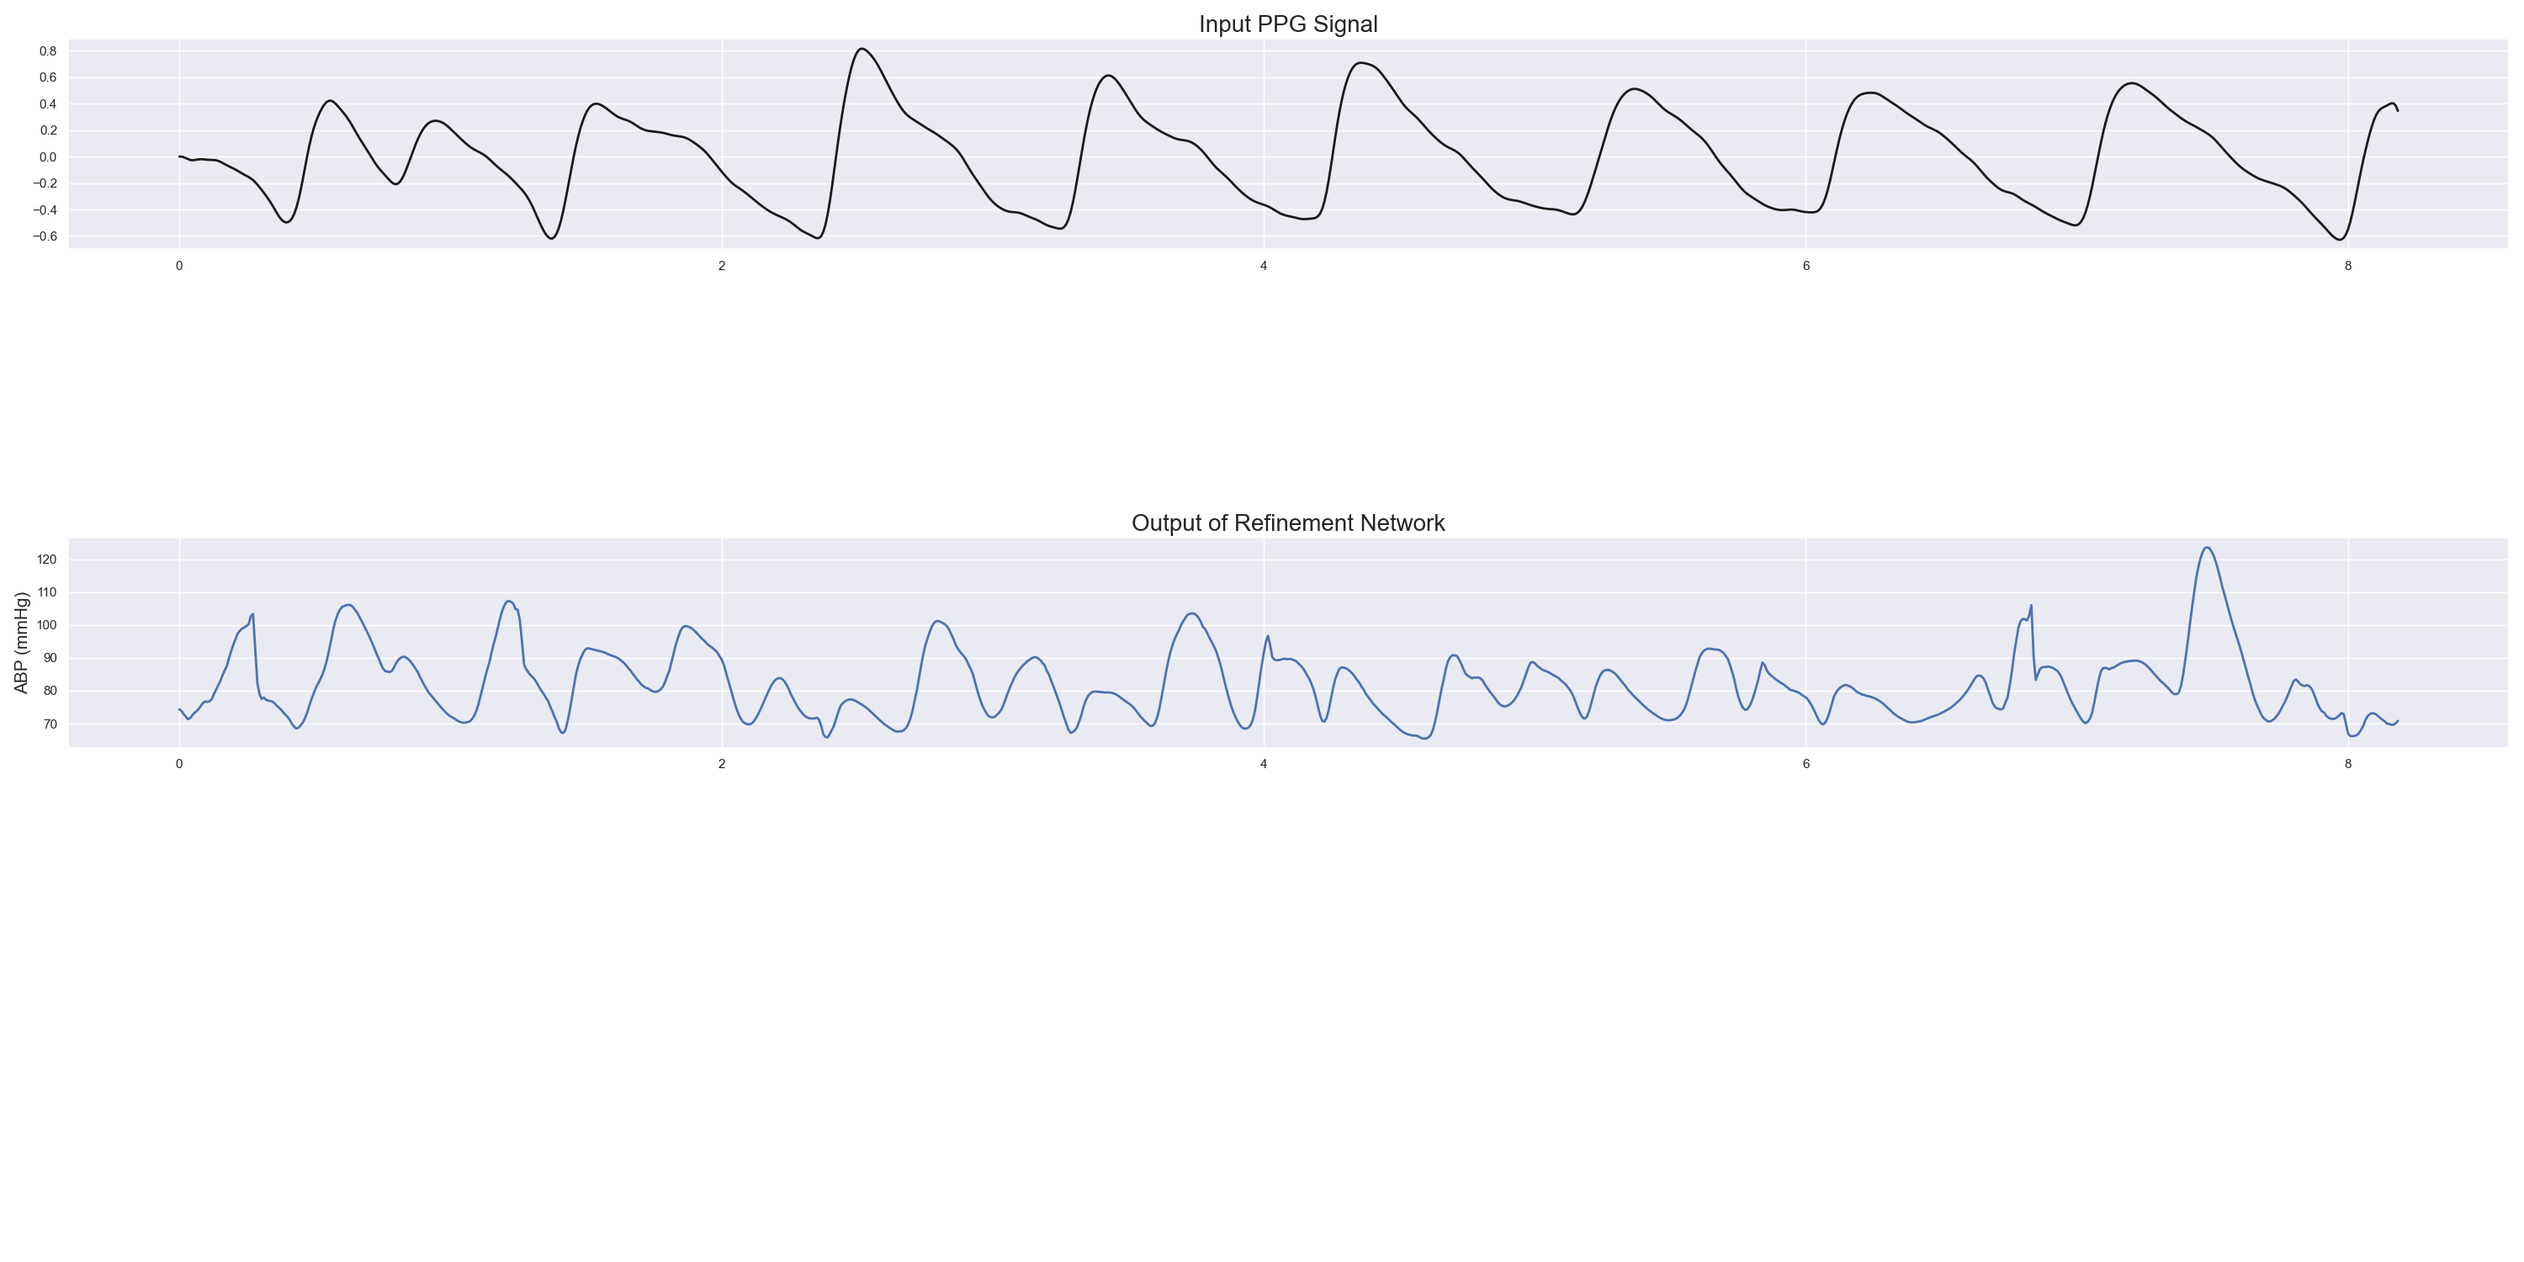
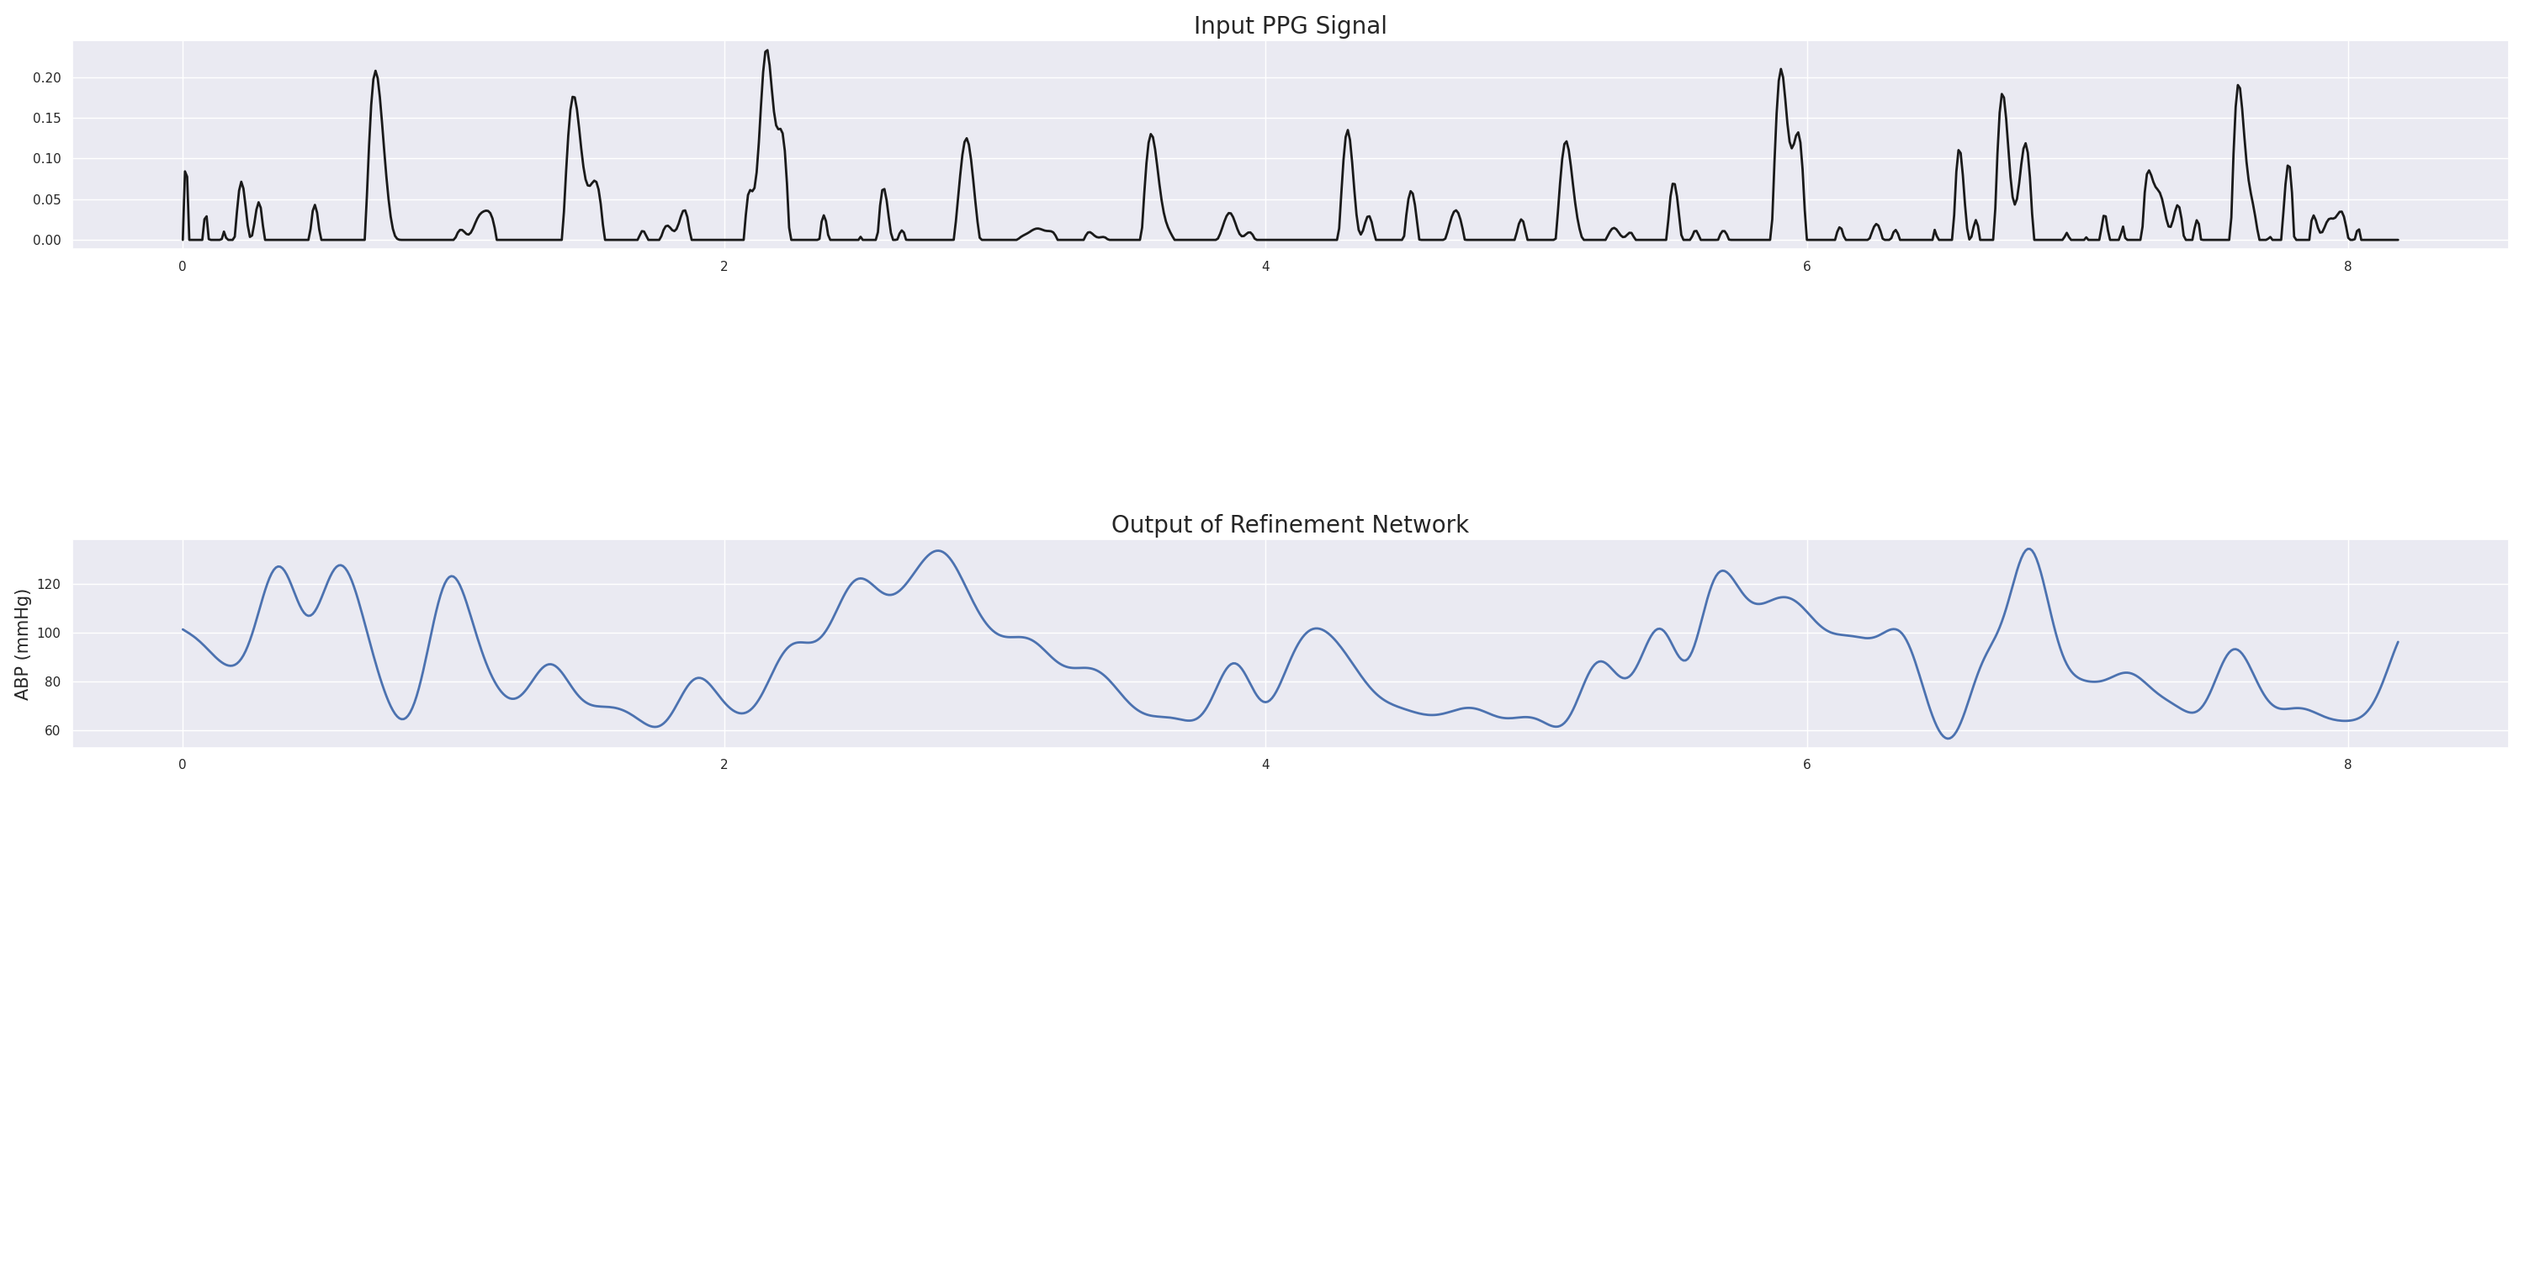
fix model

diff --git a/static/index.html b/static/index.html
@@ -4,54 +4,82 @@
     <meta charset="UTF-8">
     <title>Quay Video PPG & Upload</title>
     <style>
-        body { font-family: Arial, sans-serif; max-width: 400px; margin: 20px auto; }
-        video { width: 100%; border: 1px solid #ccc; margin-bottom: 10px; }
-        button { margin: 5px 0; }
+        body { font-family: Arial, sans-serif; max-width: 600px; margin: 20px auto; }
+        button { margin: 10px 0; padding: 10px; }
+        .result-item {
+            border: 1px solid #ccc;
+            padding: 10px;
+            margin-top: 10px;
+            background: #f9f9f9;
+        }
+        .loading {
+            color: gray;
+            font-style: italic;
+        }
     </style>
 </head>
 <body>
-<input type="file" id="fileInput" accept="video/mp4,video/webm,video/MOV" />
 
+<h3>Chọn một hoặc nhiều video PPG để đo huyết áp</h3>
+<input type="file" id="fileInput" accept="video/mp4,video/webm,video/MOV" multiple />
 <button id="uploadBtn" disabled>Upload tới API</button>
+
 <div id="result"></div>
+
 <script>
     const fileInput = document.getElementById('fileInput');
     const uploadBtn = document.getElementById('uploadBtn');
     const result = document.getElementById('result');
-    let fileToUpload = null;
+    let filesToUpload = [];
 
     fileInput.onchange = () => {
-        fileToUpload = fileInput.files[0];
-        uploadBtn.disabled = !fileToUpload;
+        filesToUpload = Array.from(fileInput.files);
+        uploadBtn.disabled = filesToUpload.length === 0;
     };
 
     uploadBtn.onclick = async () => {
-        if (!fileToUpload) return;
-        const formData = new FormData();
-        formData.append('file', fileToUpload, fileToUpload.name);
-
-        result.innerHTML = "Đang upload & xử lý...";
+        if (filesToUpload.length === 0) return;
         uploadBtn.disabled = true;
-        try {
-            const response = await fetch('http://localhost:4000/upload_ppg', {
-                method: 'POST',
-                body: formData
-            });
-            if (!response.ok) throw new Error("Lỗi server");
-            const data = await response.json();
-            result.innerHTML = `<b>Kết quả đo huyết áp:</b><br>
-                Huyết áp tâm thu (Systolic): <b>${data.systolic.toFixed(1)} mmHg</b><br>
-                Huyết áp tâm trương (Diastolic): <b>${data.diastolic.toFixed(1)} mmHg</b><br>
-                Huyết áp trung bình (Mean): <b>${data.mean.toFixed(1)} mmHg</b><br>
-                Nhịp tim (HR): <b>${data.hr ? data.hr.toFixed(1) : "?"} bpm</b>`;
-        } catch (err) {
-            result.innerHTML = "Lỗi upload hoặc lỗi xử lý API!";
-            console.error(err);
-        } finally {
-            uploadBtn.disabled = false;
-        }
-    };
 
+        for (const file of filesToUpload) {
+            const formData = new FormData();
+            formData.append('file', file, file.name);
+
+            const loadingDiv = document.createElement('div');
+            loadingDiv.className = "result-item loading";
+            loadingDiv.textContent = `Đang xử lý: ${file.name}...`;
+            result.appendChild(loadingDiv);
+
+            try {
+                const response = await fetch('http://171.244.46.201:8081/upload_ppg', {
+                    method: 'POST',
+                    body: formData
+                });
+
+                if (!response.ok) throw new Error("Lỗi server");
+                const data = await response.json();
+
+                const item = document.createElement('div');
+                item.className = "result-item";
+                const now = new Date().toLocaleString();
+
+                item.innerHTML = `<b>${file.name}</b><br>
+                    <i>Kết quả lúc: ${now}</i><br>
+                    Huyết áp tâm thu (Systolic): <b>${data.systolic.toFixed(1)} mmHg</b><br>
+                    Huyết áp tâm trương (Diastolic): <b>${data.diastolic.toFixed(1)} mmHg</b><br>
+                    Huyết áp trung bình (Mean): <b>${data.mean.toFixed(1)} mmHg</b><br>
+                    Nhịp tim (HR): <b>${data.hr ? data.hr.toFixed(1) : "?"} bpm</b>`;
+
+                result.replaceChild(item, loadingDiv);
+            } catch (err) {
+                loadingDiv.textContent = `Lỗi khi xử lý file ${file.name}`;
+                console.error(err);
+            }
+        }
+
+        uploadBtn.disabled = false;
+    };
 </script>
+
 </body>
 </html>

diff --git a/predict_test.py b/predict_test.py
@@ -1,108 +1,105 @@
-"""
-    Computes the outputs for test data
-"""
+import os
 import pickle
-
-from scipy.signal import find_peaks
-
+import numpy as np
+import matplotlib.pyplot as plt
+from scipy.signal import find_peaks, medfilt
+from setting import BASE_DIR
 from evaluate import predicting_ABP_waveform
 from models import UNetDS64, MultiResUNet1D
-import os
-import numpy as np
-from setting import BASE_DIR
 
-def calculate_heart_rate(signal, fs=125):
-    """
-    Tính nhịp tim từ tín hiệu PPG hoặc ABP.
-    ---
-    signal: mảng tín hiệu, có thể là dạng 1D hoặc 2D cần flatten
-    fs: tần số lấy mẫu
-    """
-    signal = np.array(signal).flatten()  # đảm bảo là mảng 1D
-
-    peaks, _ = find_peaks(signal, distance=fs*0.4)
-
-    num_peaks = len(peaks)
-    duration_sec = len(signal) / fs
-
-    hr = (num_peaks / duration_sec) * 60
-    return hr
-
+# ================= Utility Functions ================= #
 def clip_signal(signal, min_val, max_val):
     return np.clip(signal, min_val, max_val)
 
 def remove_spikes(signal, threshold=3):
-    """
-    Loại bỏ điểm nhiễu đột ngột bằng phương pháp dựa trên z-score.
-    Các giá trị có z-score lớn hơn threshold sẽ được thay bởi giá trị trước đó.
-    """
     signal = np.array(signal).flatten()
-    mean = np.mean(signal)
-    std = np.std(signal)
+    mean, std = np.mean(signal), np.std(signal)
     z_scores = np.abs((signal - mean) / std)
     clean_signal = signal.copy()
     for i in range(len(signal)):
         if z_scores[i] > threshold:
-            # Thay thế bằng giá trị trước đó (hoặc giá trị trung bình)
-            clean_signal[i] = clean_signal[i-1] if i > 0 else mean
+            clean_signal[i] = clean_signal[i - 1] if i > 0 else mean
     return clean_signal
 
-from scipy.signal import medfilt
-
 def median_filter(signal, kernel_size=5):
-    """
-    Lọc nhiễu đột ngột bằng median filter.
-    """
     return medfilt(signal, kernel_size)
 
+def calculate_heart_rate(signal, fs=125):
+    signal = np.array(signal).flatten()
+    peaks, _ = find_peaks(signal, distance=0.4 * fs)
+    return (len(peaks) / (len(signal) / fs)) * 60
+
+def extract_sbp_dbp(abp_signal, distance=30):
+    abp_signal = np.array(abp_signal).flatten()
+    sbp_idx, _ = find_peaks(abp_signal, distance=distance)
+    dbp_idx, _ = find_peaks(-abp_signal, distance=distance)
+    return abp_signal[sbp_idx], abp_signal[dbp_idx], sbp_idx, dbp_idx
+
+from scipy.signal import butter, filtfilt
+
+def lowpass_filter(signal, fs, cutoff=5):
+    b, a = butter(4, cutoff / (0.5 * fs), btype='low')
+    return filtfilt(b, a, signal)
+
+def plot_abp_with_sbp_dbp(abp_signal, sbp_idx, dbp_idx):
+    abp_signal = np.array(abp_signal).flatten()
+    plt.plot(abp_signal, label="ABP")
+    plt.plot(sbp_idx, abp_signal[sbp_idx], 'ro', label="SBP")
+    plt.plot(dbp_idx, abp_signal[dbp_idx], 'go', label="DBP")
+    plt.legend()
+    plt.title("ABP waveform with SBP and DBP points")
+    plt.xlabel("Time (samples)")
+    plt.ylabel("Pressure (mmHg)")
+    plt.grid()
+    plt.savefig(os.path.join('abp_with_sbp_dbp.png'))
+    plt.show()
+
+# ================= Main Prediction Function ================= #
 def predict_test_data(x_test):
-    """
-        Computes the outputs for test data
-        and saves them in order to avoid recomputing
-    """
-    #preprocessing
-    dt = pickle.load(open(os.path.join(BASE_DIR, 'data', 'meta9.p'), 'rb'))			# loading metadata
-    max_ppg = dt['max_ppg']
-    min_ppg = dt['min_ppg']
-    max_abp = dt['max_abp']
-    min_abp = dt['min_abp']
-    print({
-        "max_ppg": max_ppg,
-        "min_ppg": min_ppg,
-        "max_abp": max_abp,
-        "min_abp": min_abp
-    })
-    # x_test = clip_signal(x_test, min_ppg, max_ppg)  # Lọc nhiễu đột ngột bằng median filter
-    ppg_norm = np.array(x_test)      # Thêm dòng này để chắc chắn x_test là array
+    # Load metadata
+    meta = pickle.load(open(os.path.join(BASE_DIR, 'data', 'meta9.p'), 'rb'))
+    min_ppg, max_ppg = meta['min_ppg'], meta['max_ppg']
+    min_abp, max_abp = meta['min_abp'], meta['max_abp']
 
-    ppg_norm = (ppg_norm - min_ppg) / (max_ppg - min_ppg)
-
-    length = 1024               # length of signal
-
+    # Normalize and reshape PPG input
+    x_test = np.array(x_test)
+    x_test = clip_signal(x_test, min_ppg, max_ppg)
+    ppg_norm = (x_test - min_ppg) / (max_ppg - min_ppg)
     ppg_norm = ppg_norm.reshape(1, 1024, 1)
-    print("Shape of x_test:", ppg_norm.shape)
-    mdl1 = UNetDS64(length)                                             # creating approximation network
-    mdl1.load_weights(os.path.join(BASE_DIR, 'models','ApproximateNetwork.h5'))   # loading weights
 
-    Y_test_pred_approximate = mdl1.predict(ppg_norm,verbose=1)        # predicting approximate abp waveform
+    # Predict approximate ABP waveform
+    mdl1 = UNetDS64(1024)
+    mdl1.load_weights(os.path.join(BASE_DIR, 'models', 'ApproximateNetwork.h5'))
+    approx_abp = mdl1.predict(ppg_norm, verbose=1)
 
-    mdl2 = MultiResUNet1D(length)                                       # creating refinement network
-    mdl2.load_weights(os.path.join(BASE_DIR, 'models','RefinementNetwork.h5'))    # loading weights
+    # Refine ABP waveform
+    mdl2 = MultiResUNet1D(1024)
+    mdl2.load_weights(os.path.join(BASE_DIR, 'models', 'RefinementNetwork.h5'))
+    refined_abp = mdl2.predict(approx_abp[0], verbose=1)
 
-    Y_test_pred = mdl2.predict(Y_test_pred_approximate[0],verbose=1)    # predicting abp waveform
-    print("Shape of Y_test_pred:", Y_test_pred.shape)
+    # Denormalize ABP prediction
+    abp_pred = refined_abp * (max_abp - min_abp) + min_abp
+    abp_pred = lowpass_filter(abp_pred.flatten(), fs=125, cutoff=5)
 
-    abp_pred = Y_test_pred * (max_abp - min_abp) + min_abp
+    # Save prediction
     predicting_ABP_waveform(x_test, abp_pred)
-    #Khôi phục hồi lại giá trị huyết áp từ giá trị dự đoán
 
-    SBP = np.max(abp_pred)  # Huyết áp tâm thu (mmHg)
-    DBP = np.min(abp_pred)  # Huyết áp tâm trương (mmHg)
-    MAP = np.mean(abp_pred)  # Huyết áp trung bình (mmHg)
-    HR = (calculate_heart_rate(x_test) * 3 + calculate_heart_rate(abp_pred))/4
-    return {
-        "hr": HR,
-        "systolic": SBP,
-        "diastolic": DBP,
-        "mean": MAP
-    }
+    # Estimate heart rate (weighted avg of PPG & ABP HR)
+    hr =  calculate_heart_rate(abp_pred)
+    # Tính distance tương ứng
+    beat_interval_sec = 60.0 / hr
+    distance = int(beat_interval_sec * 125 )  # Lấy 80% để tránh bỏ đỉnh gần
+    distance = max(20, distance)  # đảm bảo không quá nhỏ
+
+    # Extract SBP, DBP
+    sbp_vals, dbp_vals, sbp_idx, dbp_idx = extract_sbp_dbp(abp_pred, distance=distance)
+    sbp, dbp = np.median(sbp_vals), np.median(dbp_vals)
+
+    map_val = (2 * dbp + sbp) / 3
+
+    # Plot ABP with annotations
+    plot_abp_with_sbp_dbp(abp_pred, sbp_idx, dbp_idx)
+
+    result = {"hr": hr, "systolic": sbp, "diastolic": dbp, "mean": map_val}
+    print(result)
+    return result

diff --git a/signal_extractor/signal_preprocessing.py b/signal_extractor/signal_preprocessing.py
@@ -208,7 +208,7 @@ def process_single_signal_file(
                                                                   'multiplier': 3,
                                                                   'order': 1}}],
                                             'name': 'dynamic_bpm'}],
-                         'sources': ['luma_mean']}
+                         'sources': ['r_ch_mean']}
     }
 
     try:
@@ -237,8 +237,6 @@ def process_single_signal_file(
                         name_at_step_j[-1],
                         filtered_j.shape
                     ))
-                    if len(filtered_j) != target_samples:
-                        filtered_j = resample(filtered_j, target_samples)
                     new_name = "%s>%s" % (name_at_step_j[-1], fun_dict["name"])
 
                     if len(filtered_j) == len(extracted_s[source].values):
@@ -262,7 +260,7 @@ def process_single_signal_file(
         visualize_signal(
             everything_to_plot,
             labels=everything_to_plot_labels,
-            output_fname=img_fpath, source="luma_mean")
+            output_fname=img_fpath, source="r_ch_mean")
     except Exception as e:
         traceback.print_exc()
         print(e)

diff --git a/signal_extractor/signal_extract.py b/signal_extractor/signal_extract.py
@@ -167,8 +167,6 @@ def extract_signal(filename, video_path, output_folder):
     print(f"Video FPS: {fps}, Total frames: {total_frames}, Duration: {duration_seconds:.2f}s")
 
 
-
-    # Tính vị trí đoạn 7s ở giữa video (theo frame)
     center_frame = total_frames // 2
     half_seg = int((segment_seconds * fps) / 2)
     start_frame = max(center_frame - half_seg, 0)
@@ -182,9 +180,15 @@ def extract_signal(filename, video_path, output_folder):
     cap.set(cv2.CAP_PROP_POS_FRAMES, start_frame)
     for _ in range(num_frames_to_read):
         ret, frame = cap.read()
+        h, w, _ = frame.shape
+        x1, x2 = int(w * 0.25), int(w * 0.75)
+        y1, y2 = int(h * 0.25), int(h * 0.75)
+        roi = frame[y1:y2, x1:x2]
+
+        frame_rgb = cv2.cvtColor(roi, cv2.COLOR_BGR2RGB)
         if not ret:
             break
-        list_of_frames.append(frame)
+        list_of_frames.append(frame_rgb)
     cap.release()
 
     se = SignalExtractor(int(fps))

diff --git a/main.py b/main.py
@@ -42,9 +42,9 @@ async def upload_ppg(file: UploadFile = File(...)):
         temp_path = temp_video.name
 
 
-    # Đảm bảo convert sang mp4 nếu không phải mp4
-    if not temp_path.endswith(".mp4"):
-        temp_path = convert_to_mp4(temp_path)
+    # # Đảm bảo convert sang mp4 nếu không phải mp4
+    # if not temp_path.endswith(".mp4"):
+    #     temp_path = convert_to_mp4(temp_path)
 
     ppg_signal = run_extract_signal(temp_path)
     output = predict_test_data(ppg_signal)

diff --git a/signal_extractor/pipeline.py b/signal_extractor/pipeline.py
@@ -49,7 +49,7 @@ def run_extract_signal(file_path):
     signal_file = os.path.join(str(output_folder), video_name + "_preprocessed.csv")
     df = pd.read_csv(signal_file, index_col=False)
 
-    data = df["luma_mean>roll_avg>sub>lpf>cut_start"].values
+    data = df["r_ch_mean>cut_start>hpf>bpf_bpm"].values
     print("Data shape:", data.shape)
     return data.tolist()
 
